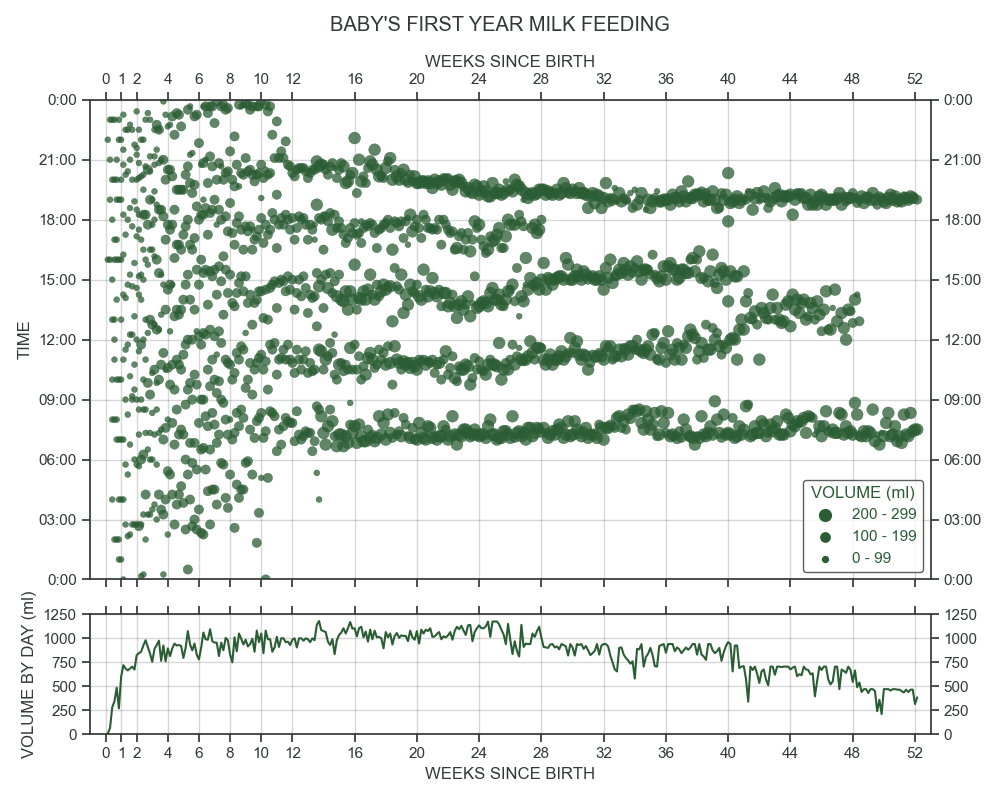
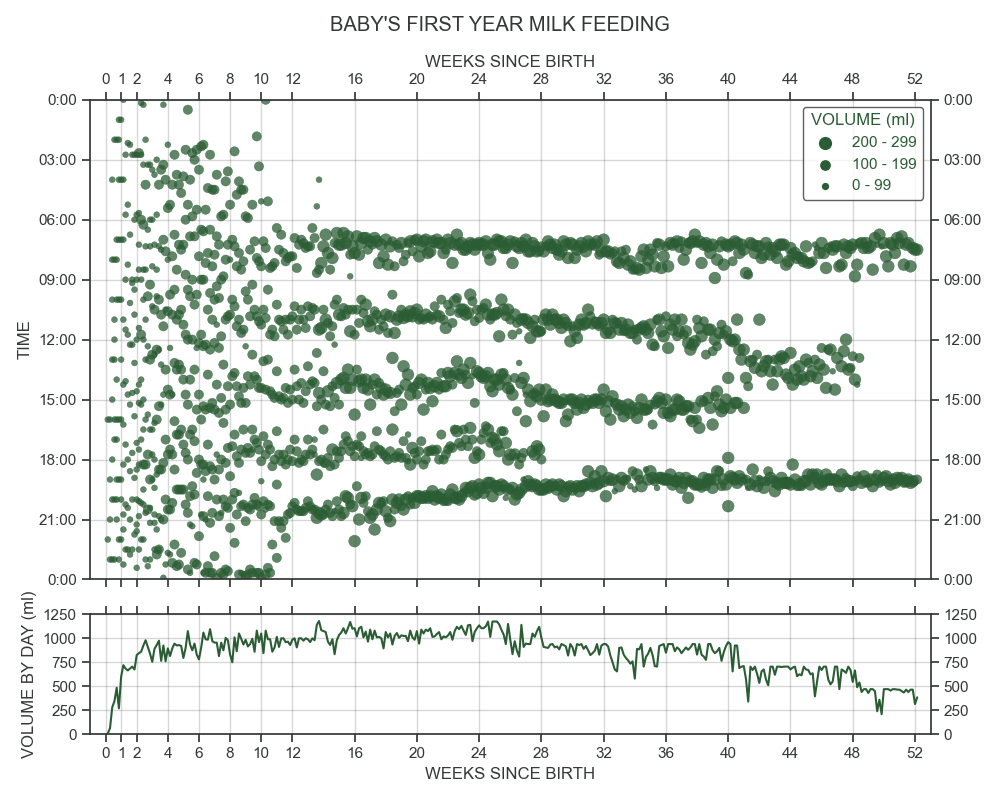
Invert y axis of scatterplot

diff --git a/create_plot.py b/create_plot.py
@@ -60,11 +60,9 @@ def create_scatterplot(df_scatter: pd.DataFrame, filename: str) -> None:
     plt.suptitle("BABY'S FIRST YEAR MILK FEEDING", color=color_axis)
 
     ax[0].grid(alpha=0.2)
-    ax[0].invert_yaxis()
-    ax[0].set_yticks(ticks=[0, 180, 360, 540, 720, 900, 1080, 1260, 1440], labels=["0:00", "03:00", "06:00", "09:00", "12:00", "15:00", "18:00", "21:00", "0:00"])
-    ax[0].set_ylabel("TIME")
-    ax[0].set_ylim([0, 1440])
-    ax[0].set_xlabel(None)
+    ax[0].set_ylim([1440, 0])
+    ax[0].set_yticks(ticks=[1440, 1260, 1080, 900, 720, 540, 360, 180, 0], labels=["0:00", "21:00", "18:00", "15:00", "12:00", "09:00", "06:00", "03:00", "0:00"])
+    ax[0].set_ylabel("TIME")    
 
     ax[0].set_xlabel("WEEKS SINCE BIRTH")   
     ax[0].xaxis.set_label_position("top") 
